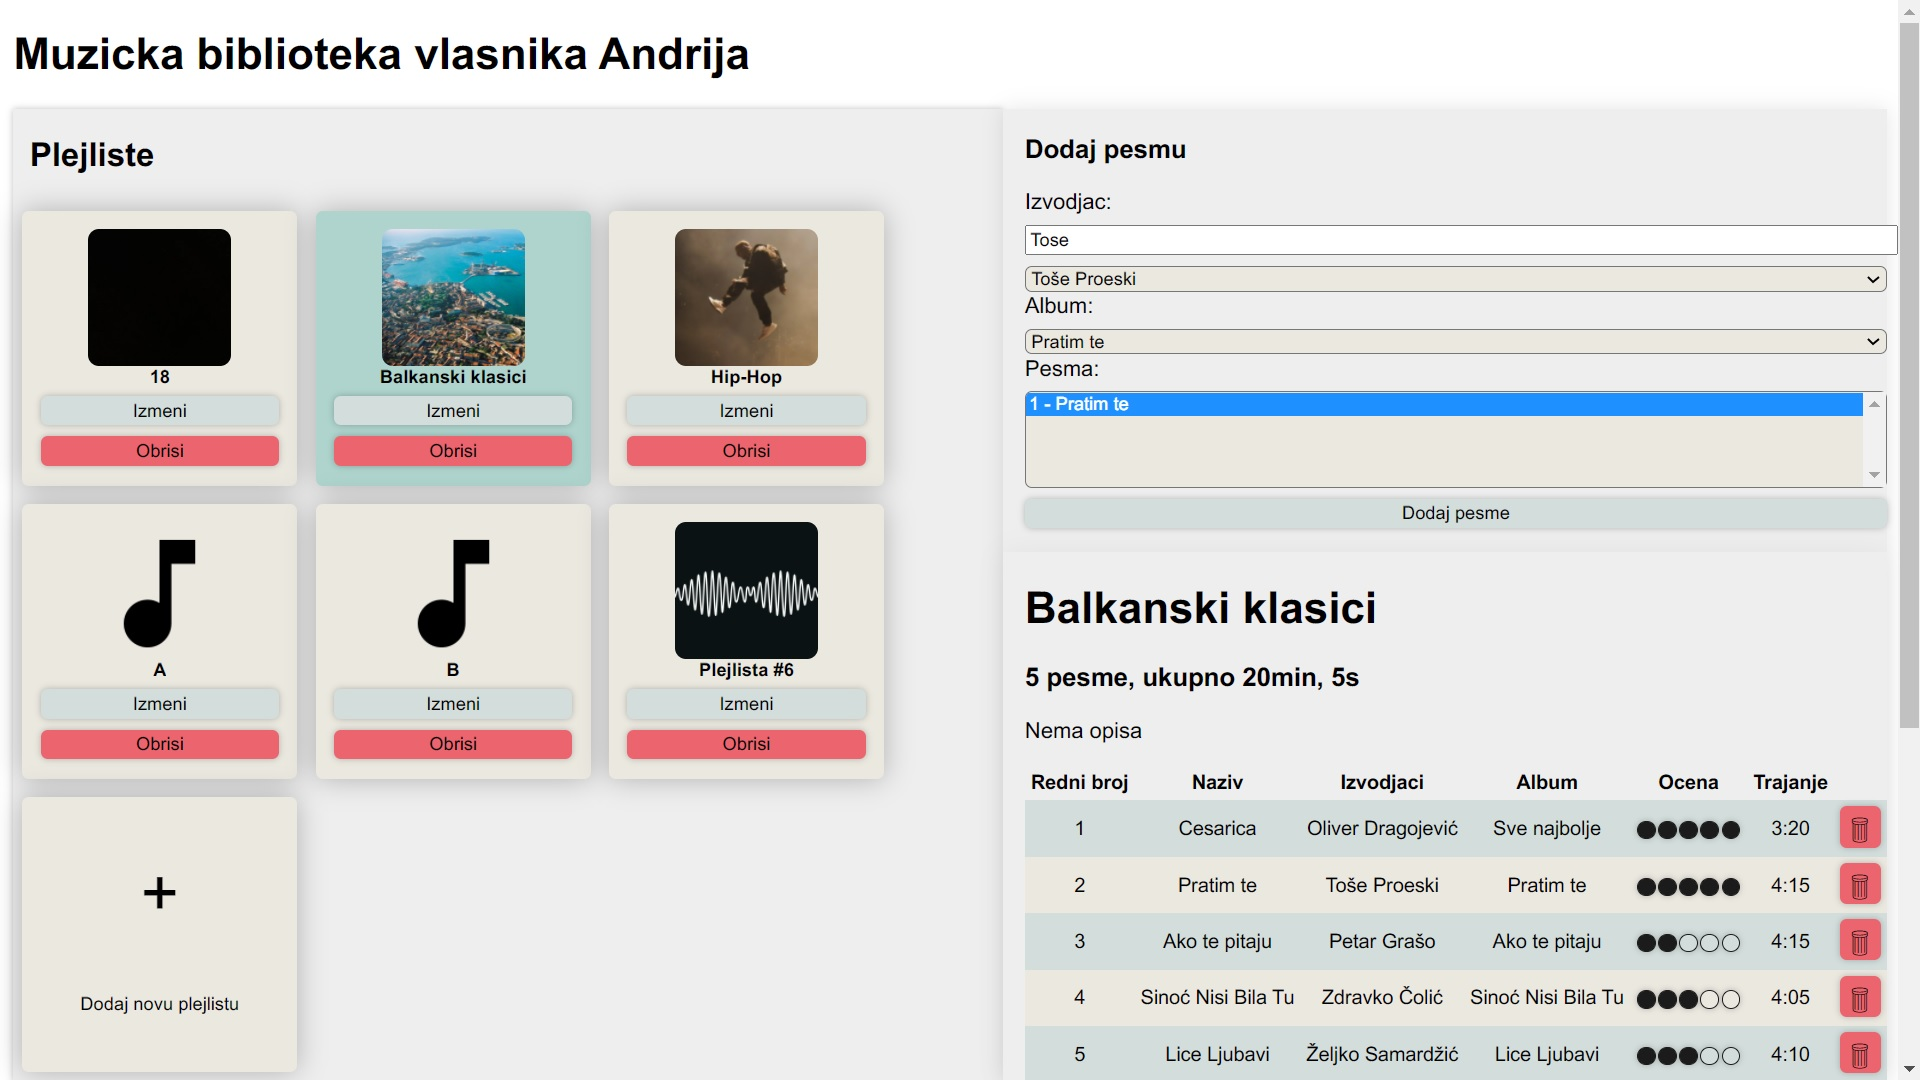
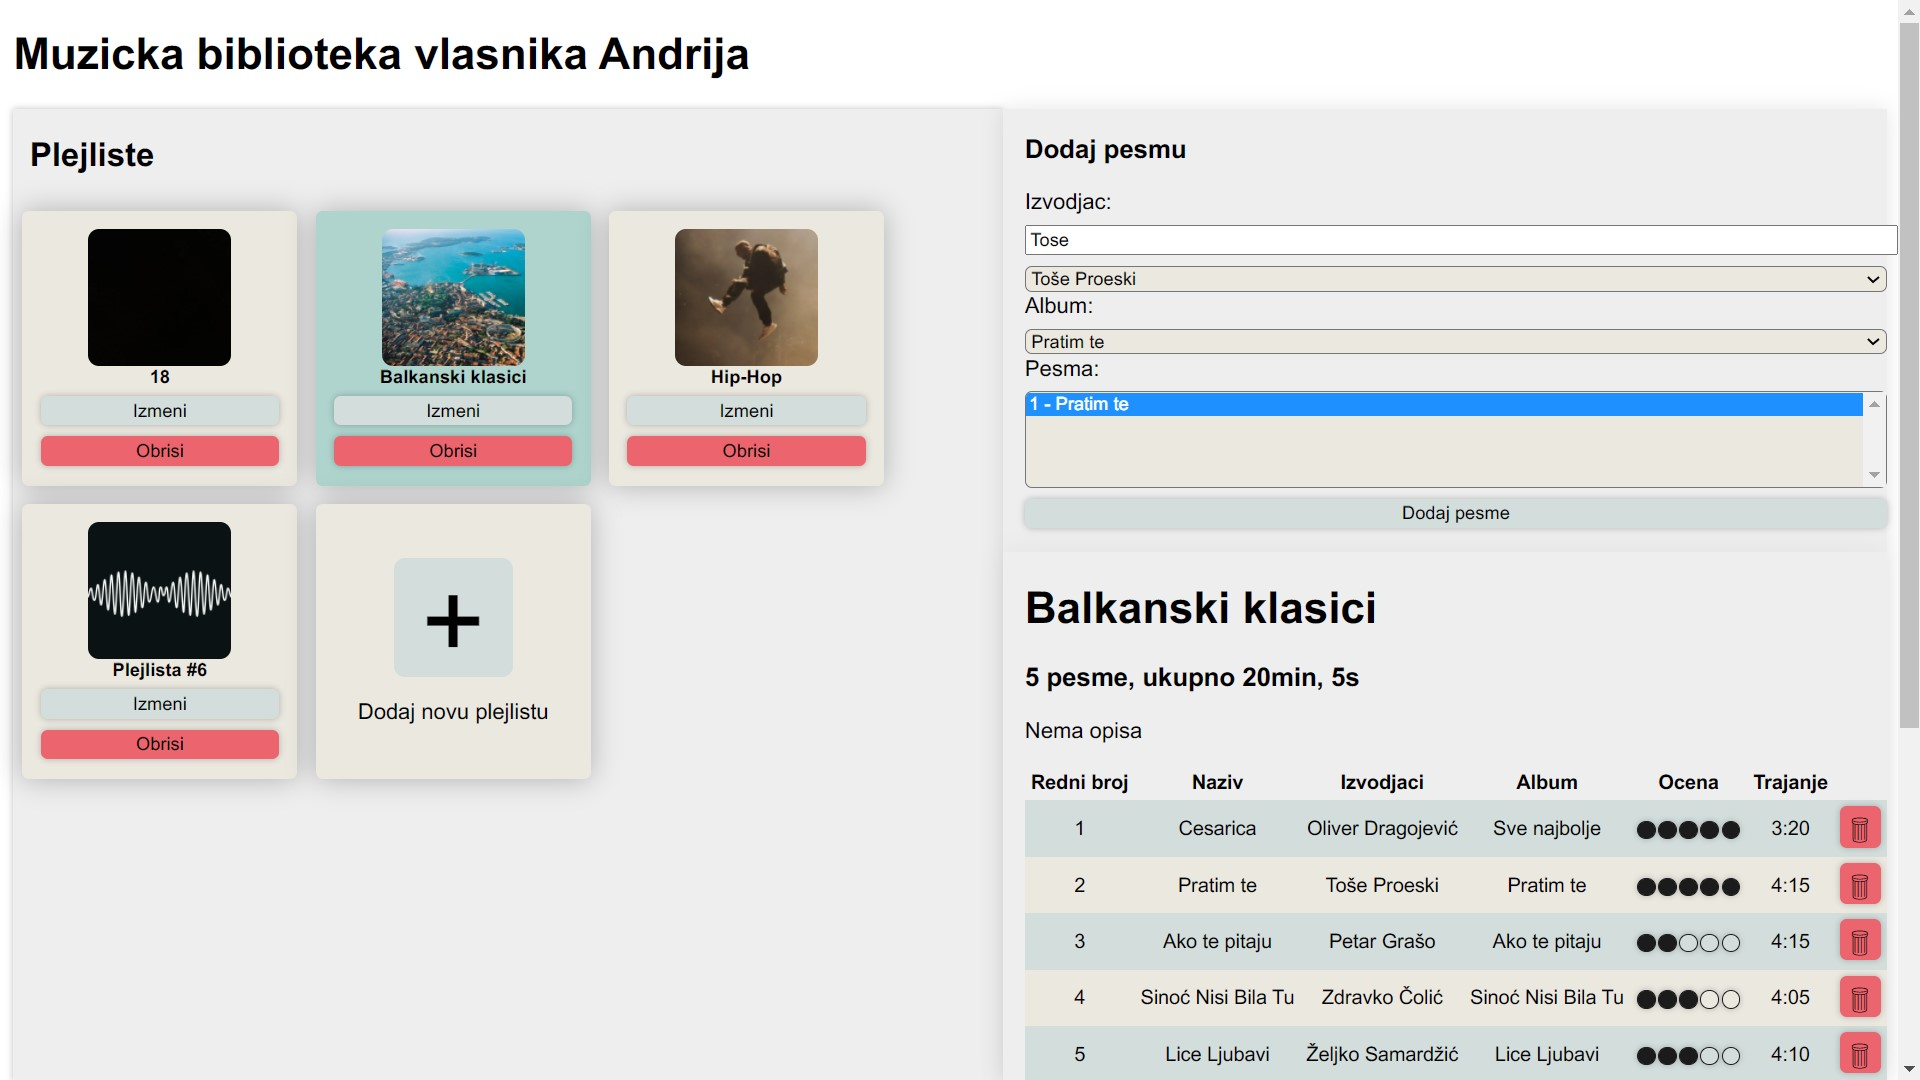
dokumentacija

diff --git a/Client/style.css b/Client/style.css
@@ -112,17 +112,16 @@ button {
     width: 60%;
     height: 60%;
     border-radius: 8px;
-    /*background-color: var(--light);
-    */
     background-size: cover;
     background-repeat: no-repeat;
-
+    
 }
 
 .addPlaylistImage {
+    background-color: var(--light);
     width: 50%;
     height: 50%;
-    font-size: 3rem;
+    font-size: 6em;
     font-weight: normal;
 }
 
@@ -136,6 +135,7 @@ button {
 
 .addPlaylistLabel {
     margin-top: 1em;
+    font-size: medium;
 }
 
 .playlistComponent:hover, .addPlaylistComponent:hover, .playlistLabel, .addPlaylistLabel, .addTrackBtn:hover, .removeTrackBtn:hover {
